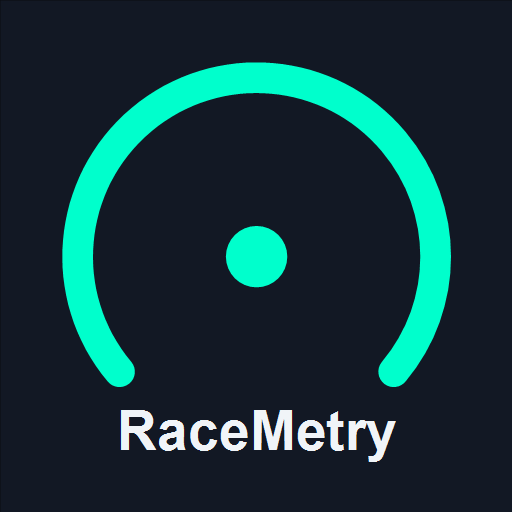
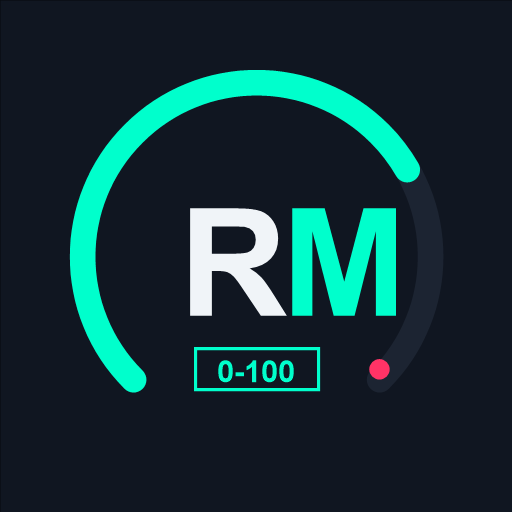
Обновлен дизайн иконки приложения: минималистичный стиль с логотипом RM, шкалой спидометра и плашкой 0-100

diff --git a/sw.js b/sw.js
@@ -3,7 +3,7 @@
  * Provides 100% offline capability and instant background auto-updates
  */
 
-const CACHE_NAME = 'racemetry-v2.3';
+const CACHE_NAME = 'racemetry-v2.4';
 const ASSETS_TO_CACHE = [
   './',
   './index.html',
